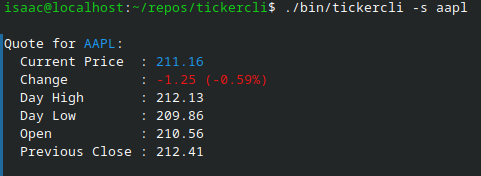
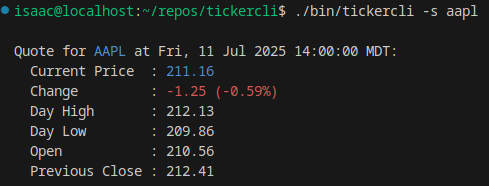
add timestamp

Changed region(s): [[0.0, 0.1989, 0.8108, 1.0], [0.0, 0.0, 0.9979, 0.1136]]

diff --git a/main.go b/main.go
@@ -5,6 +5,7 @@ import (
 	"fmt"
 	"os"
 	"strings"
+	"time"
 
 	"github.com/ilubbe/tickercli/colors"
 	"github.com/ilubbe/tickercli/ticker"
@@ -41,8 +42,10 @@ func main() {
 		os.Exit(1)
 	}
 
+	timestamp := time.Unix(quote.Timestamp, 0)
+
 	fmt.Println()
-	fmt.Printf("Quote for %s%s%s:\n", colors.Blue, chosenSymbol, colors.Reset)
+	fmt.Printf("Quote for %s%s%s at %s:\n", colors.Blue, chosenSymbol, colors.Reset, timestamp.Format(time.RFC1123))
 	fmt.Printf("  Current Price  : %s%.2f%s\n", colors.Blue, quote.Current, colors.Reset)
 	colorCode := colors.DetermineColor(quote.Change)
 	fmt.Printf("  Change         : %s%.2f (%.2f%%)%s\n", colorCode, quote.Change, quote.PercentChange, colors.Reset)
